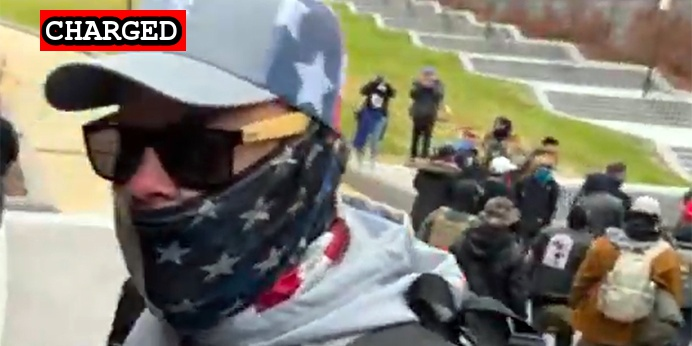
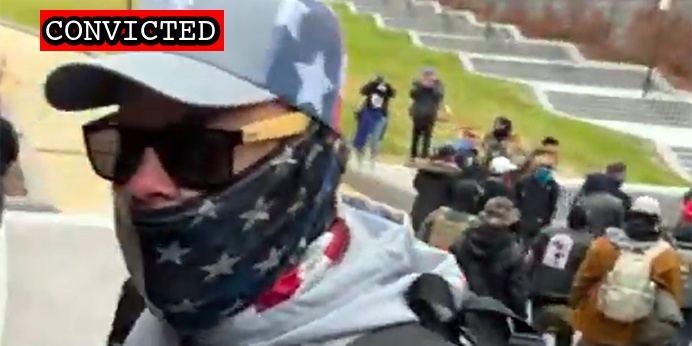
Grace plea

Changed region(s): [[0.0607, 0.0289, 0.3338, 0.1734]]

diff --git a/docs/_suspects/jeremy-grace.md b/docs/_suspects/jeremy-grace.md
@@ -4,15 +4,17 @@ lastName: Grace
 hashtag: GrayUAPB
 aka:
 residence: Oregon
-status: Charged
+status: Convicted
 date: 2021-05-24
 charged: 2021-05-24
 indicted:
-convicted:
+convicted: 2022-04-08
+acquitted:
 sentenced:
 dismissed:
 deceased:
 plea_hearing: 2022-04-08
+trial_date:
 sentencing:
 age:
 occupation:
@@ -34,9 +36,15 @@ published: true
 caseNumber: 1:21-cr-492
 videos:
 charges:
+  - code: 18 USC § 1752(a)(1)
+    title: Entering a restricted building or grounds
+    url: https://www.law.cornell.edu/uscode/text/18/1752
+    felony: false
 sentence:
 ---
 
 - [News Report](https://www.oregonlive.com/crime/2021/05/battle-ground-man-caught-on-video-with-dad-repeating-our-house-while-inside-us-capitol-during-jan-6-incursion-feds-say.html)
 - [Statement of Facts](https://www.justice.gov/usao-dc/case-multi-defendant/file/1398131/download)
 - [Information](https://www.justice.gov/usao-dc/case-multi-defendant/file/1422216/download)
+- [Plea Agreement](https://storage.courtlistener.com/recap/gov.uscourts.dcd.233949/gov.uscourts.dcd.233949.30.0_1.pdf)
+- [Statement of Offense](https://storage.courtlistener.com/recap/gov.uscourts.dcd.233949/gov.uscourts.dcd.233949.31.0_1.pdf)

diff --git a/docs/_suspects/charles-donohoe.md b/docs/_suspects/charles-donohoe.md
@@ -58,3 +58,5 @@ sentence:
 - [Detention Memo](https://extremism.gwu.edu/sites/g/files/zaxdzs2191/f/Charles%20Donohoe%20Government%20Memorandum%20in%20Support%20of%20Pre-trial%20Detention.pdf)
 - [Sentencing Memo](https://extremism.gwu.edu/sites/g/files/zaxdzs2191/f/Charles%20Donohoe%20Government%20Memorandum%20in%20Support%20of%20Pre-trial%20Detention.pdf)
 - [Statement of Offense](https://www.documentcloud.org/documents/21580937-220408-donohoe-statement-of-offense)
+- [DOJ Press Release (Plea Deal)](https://www.justice.gov/usao-dc/pr/leader-north-carolina-chapter-proud-boys-pleads-guilty-conspiracy-and-assault-charges-jan)
+- [Plea Deal](https://storage.courtlistener.com/recap/gov.uscourts.dcd.229064/gov.uscourts.dcd.229064.335.0_2.pdf)
